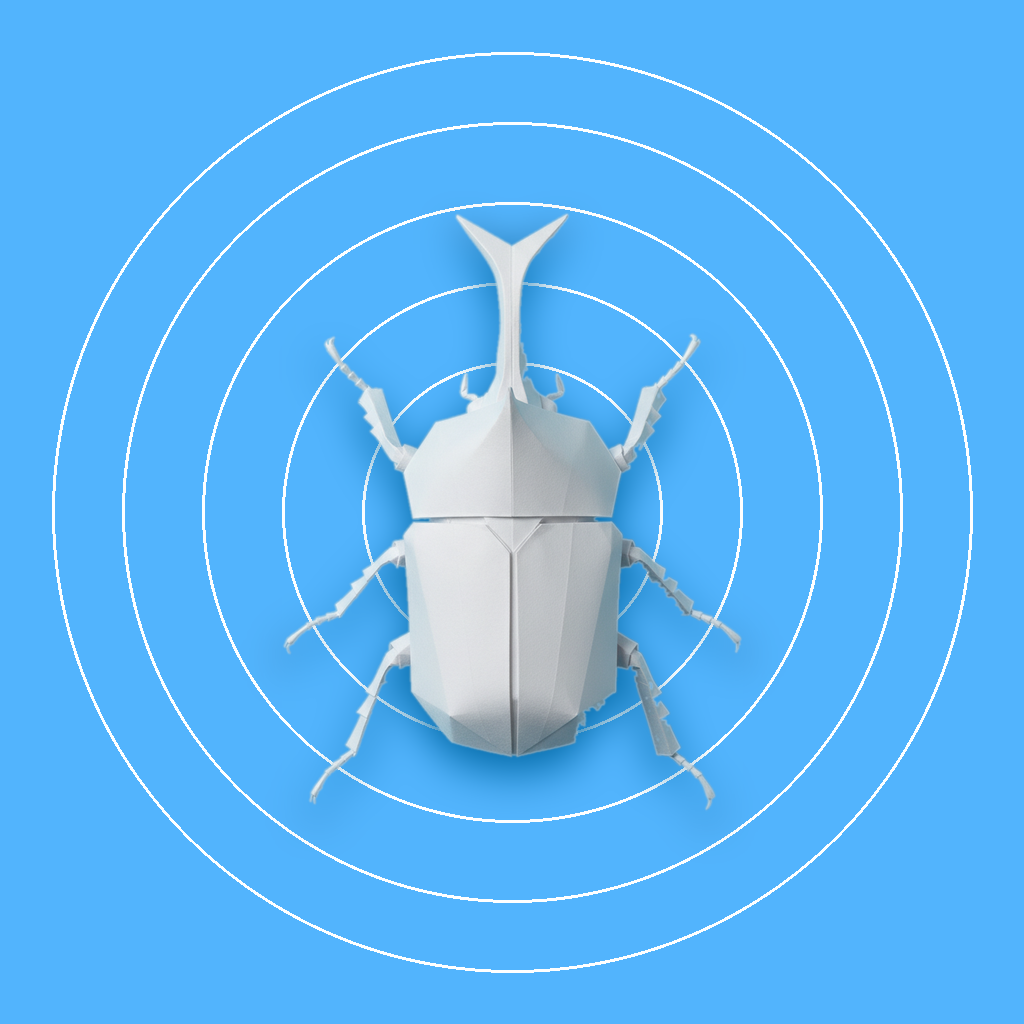
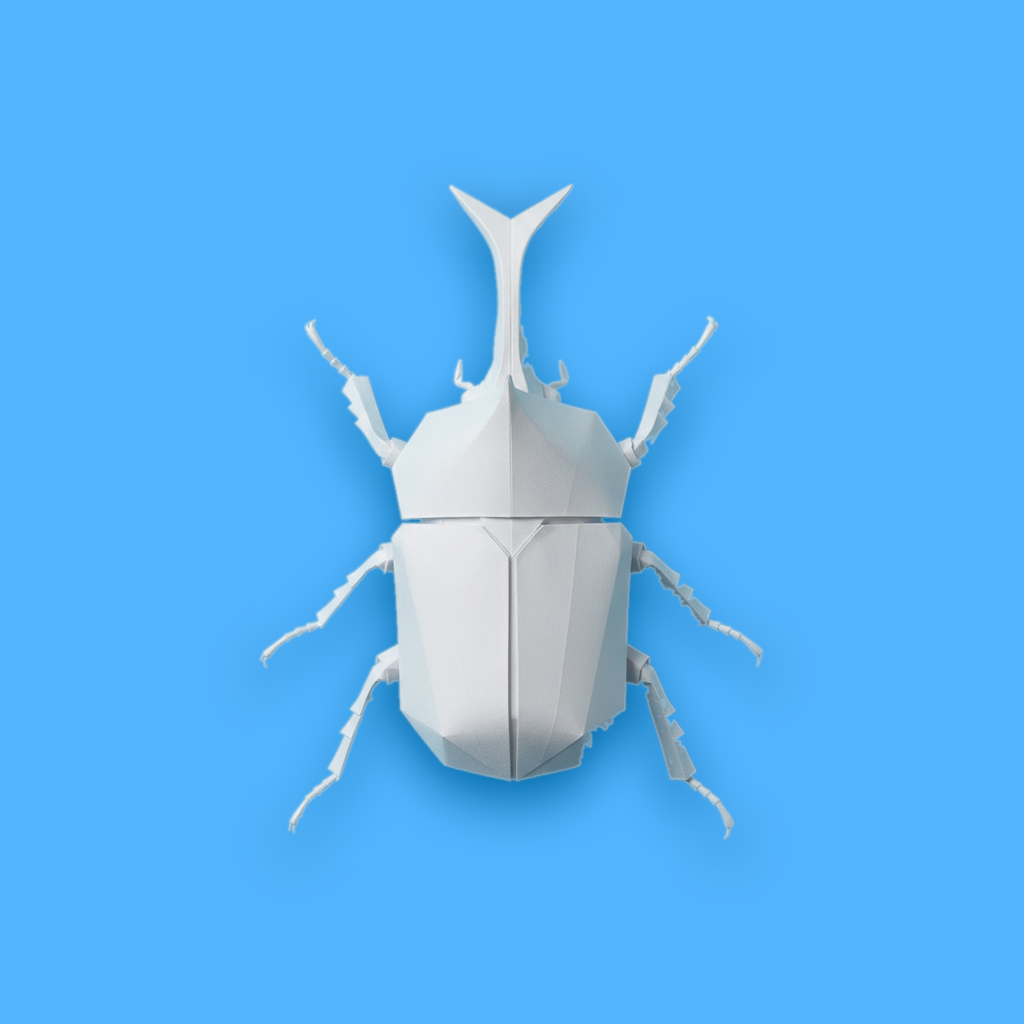
style(catalog): harmonize agent-analyzer card with macOS studio window frame and clean symbol

diff --git a/produtos/index.html b/produtos/index.html
@@ -1585,20 +1585,20 @@ document.head.appendChild(o)}if(document.readyState==="complete"){initApollo()}e
         </div>
       </div>
 
-      <div class="product-catalog-card" style="margin-top: 40px;">
+      <div class="product-catalog-card" style="margin-top: 48px;">
         <div>
           <div class="product-meta-kicker" style="margin-bottom: 10px;">Plataforma Aberta · Licença MIT</div>
           <div style="display: flex; align-items: center; gap: 14px; margin-bottom: 14px;">
             <img src="/assets/brand/symbol/symbol-analyzer-square-clean.png" alt="Agent Analyzer" width="44" height="44" style="width: 44px; height: 44px; display: block; box-shadow: 0 2px 8px rgba(82, 180, 253, 0.35);">
-            <h3 class="card-title" style="font-size: 2.1rem; margin-bottom: 0;">Agent Analyzer</h3>
+            <h3 class="card-title" style="font-size: 2.1rem; margin-bottom: 0; white-space: nowrap;">Agent Analyzer</h3>
           </div>
           <p class="card-body" style="margin-bottom: 18px;">
-            Mapeador topológico em caixa-preta via sonda única para WhatsApp e LangGraph. Executa um protocolo progressivo de 6 ondas de W0 a W5 para realizar engenharia reversa de máquinas de estado StateGraph, limites de latência líquida e persistência de checkpointer.
+            Mapeador topológico em caixa-preta via sonda única para WhatsApp e LangGraph. Executa um protocolo progressivo de seis ondas de W0 a W5 para realizar engenharia reversa de máquinas de estado StateGraph, limites de latência líquida e persistência de checkpointer.
           </p>
           <ul style="list-style: none; padding: 0; margin: 0 0 26px 0; display: flex; flex-direction: column; gap: 10px; font-size: 0.92rem; color: var(--body);">
-            <li><strong>• Sonda Sequencial Única:</strong> Descoberta e verificação de replay em dois passos com isolamento /reset e jitter biométrico anti-ban.</li>
-            <li><strong>• Paralelismo Subaditivo:</strong> Prova matemática de latência que separa bifurcações concorrentes Send de rotas condicionais OU.</li>
-            <li><strong>• Exportadores Puros:</strong> Síntese determinística de código Python executável para LangGraph StateGraph, fluxos Mermaid, JSON e Markdown.</li>
+            <li><strong>• Sonda Sequencial Única:</strong> Descoberta e verificação de replay em dois passos com isolamento /reset e cadência humana anti-ban.</li>
+            <li><strong>• Paralelismo Subaditivo:</strong> Prova matemática de latência que separa bifurcações concorrentes Send de rotas condicionais seriais.</li>
+            <li><strong>• Quatro Exportadores Puros:</strong> Síntese determinística de código Python compilável em LangGraph, fluxos Mermaid, JSON e Markdown.</li>
           </ul>
           <div style="display: flex; flex-wrap: wrap; gap: 14px;">
             <a href="/produtos/agent-analyzer/" class="btn btn-primary" style="padding: 12px 26px; font-size: 0.94rem;">Conhecer Produto</a>
@@ -1607,7 +1607,7 @@ document.head.appendChild(o)}if(document.readyState==="complete"){initApollo()}e
         </div>
         <div>
           <a href="/produtos/agent-analyzer/" style="display: block;">
-            <img src="/assets/images/products/agent-analyzer/banner.png" alt="Interface Blueprint Studio do Agent Analyzer" width="1600" height="900" loading="lazy" decoding="async">
+            <img src="/assets/images/products/agent-analyzer/studio_window.png" alt="Interface Blueprint Studio do Agent Analyzer" width="1600" height="976" loading="lazy" decoding="async">
           </a>
         </div>
       </div>

diff --git a/en/products/index.html b/en/products/index.html
@@ -1585,12 +1585,12 @@ document.head.appendChild(o)}if(document.readyState==="complete"){initApollo()}e
         </div>
       </div>
 
-      <div class="product-catalog-card" style="margin-top: 40px;">
+      <div class="product-catalog-card" style="margin-top: 48px;">
         <div>
           <div class="product-meta-kicker" style="margin-bottom: 10px;">Open Platform · MIT License</div>
           <div style="display: flex; align-items: center; gap: 14px; margin-bottom: 14px;">
             <img src="/assets/brand/symbol/symbol-analyzer-square-clean.png" alt="Agent Analyzer" width="44" height="44" style="width: 44px; height: 44px; display: block; box-shadow: 0 2px 8px rgba(82, 180, 253, 0.35);">
-            <h3 class="card-title" style="font-size: 2.1rem; margin-bottom: 0;">Agent Analyzer</h3>
+            <h3 class="card-title" style="font-size: 2.1rem; margin-bottom: 0; white-space: nowrap;">Agent Analyzer</h3>
           </div>
           <p class="card-body" style="margin-bottom: 18px;">
             Single-probe black-box conversational agent topology mapper for WhatsApp &amp; LangGraph. Executes a progressive 6-wave sequential probing protocol (W0&rarr;W5) to reverse-engineer hidden StateGraph state machines, net latency boundaries, and canary checkpointer persistence.
@@ -1598,7 +1598,7 @@ document.head.appendChild(o)}if(document.readyState==="complete"){initApollo()}e
           <ul style="list-style: none; padding: 0; margin: 0 0 26px 0; display: flex; flex-direction: column; gap: 10px; font-size: 0.92rem; color: var(--body);">
             <li><strong>• Single-Probe Protocol (N=1):</strong> Two-pass discovery and replay verification with /reset boundary isolation and anti-ban biometric jitter.</li>
             <li><strong>• Subadditive Parallel Fan-Out:</strong> Mathematical latency proof separating concurrent LangGraph Send() fan-out from serial conditional routes.</li>
-            <li><strong>• Pure-Function Exporters:</strong> Deterministic generation of runnable LangGraph StateGraph Python skeletons, Mermaid flowcharts, JSON, and Markdown.</li>
+            <li><strong>• Four Pure-Function Exporters:</strong> Deterministic generation of runnable LangGraph StateGraph Python skeletons, Mermaid flowcharts, JSON, and Markdown.</li>
           </ul>
           <div style="display: flex; flex-wrap: wrap; gap: 14px;">
             <a href="/en/products/agent-analyzer/" class="btn btn-primary" style="padding: 12px 26px; font-size: 0.94rem;">Explore Product Page</a>
@@ -1607,7 +1607,7 @@ document.head.appendChild(o)}if(document.readyState==="complete"){initApollo()}e
         </div>
         <div>
           <a href="/en/products/agent-analyzer/" style="display: block;">
-            <img src="/assets/images/products/agent-analyzer/banner.png" alt="Agent Analyzer Blueprint Studio Interface" width="1600" height="900" loading="lazy" decoding="async">
+            <img src="/assets/images/products/agent-analyzer/studio_window.png" alt="Agent Analyzer Blueprint Studio Interface" width="1600" height="976" loading="lazy" decoding="async">
           </a>
         </div>
       </div>
